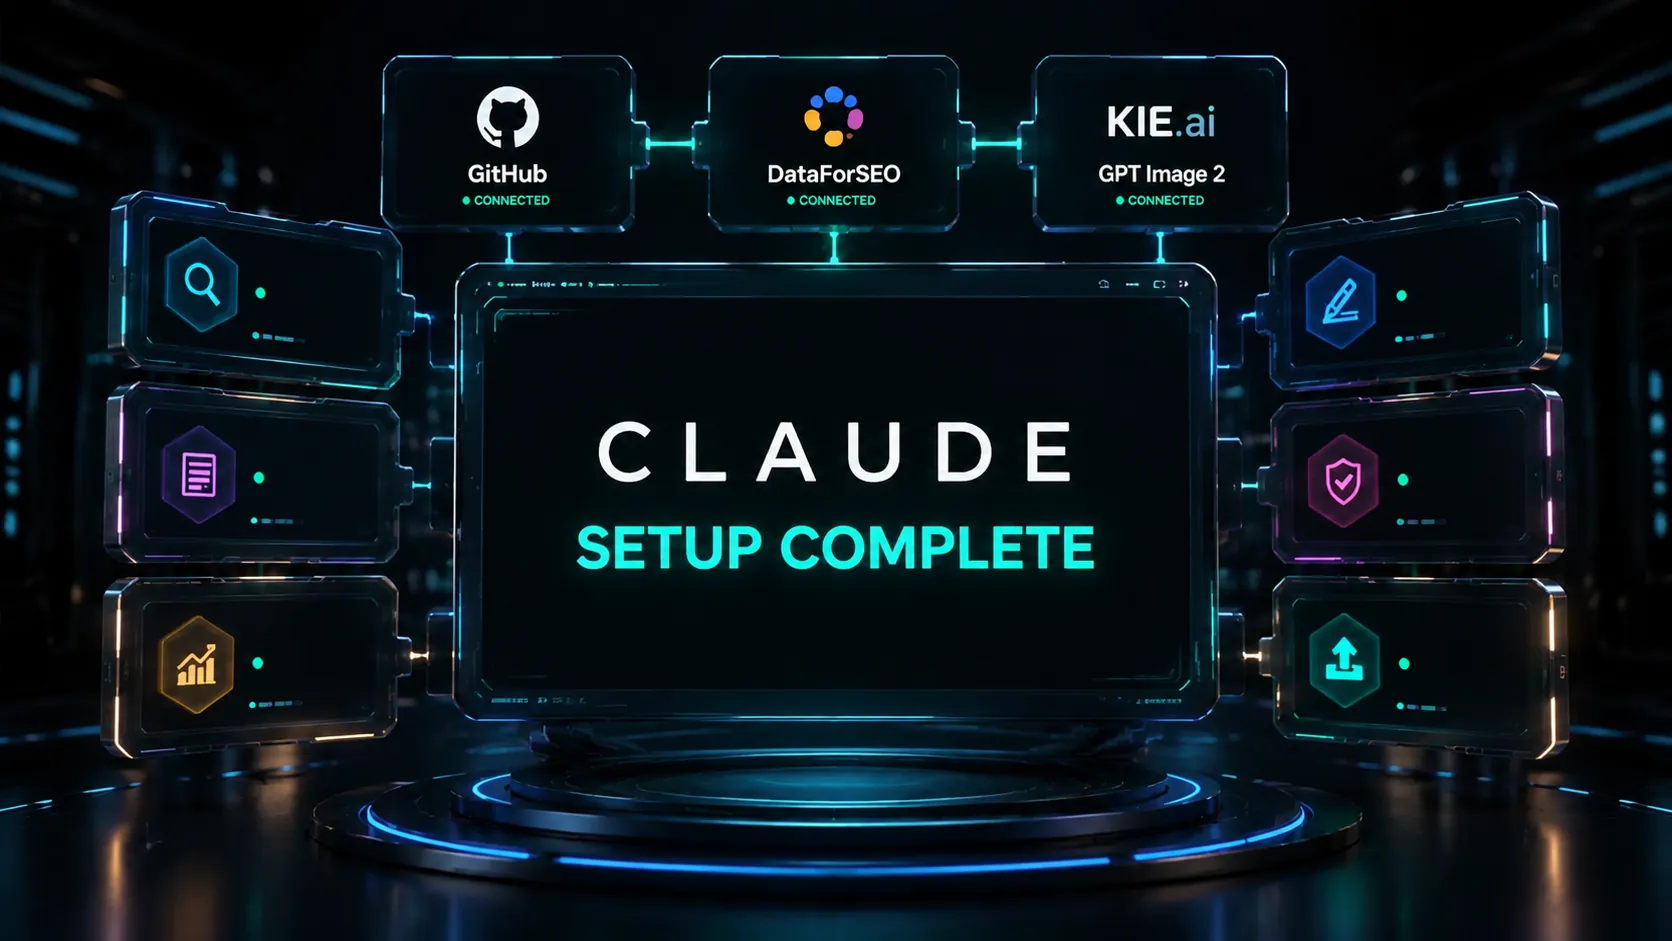
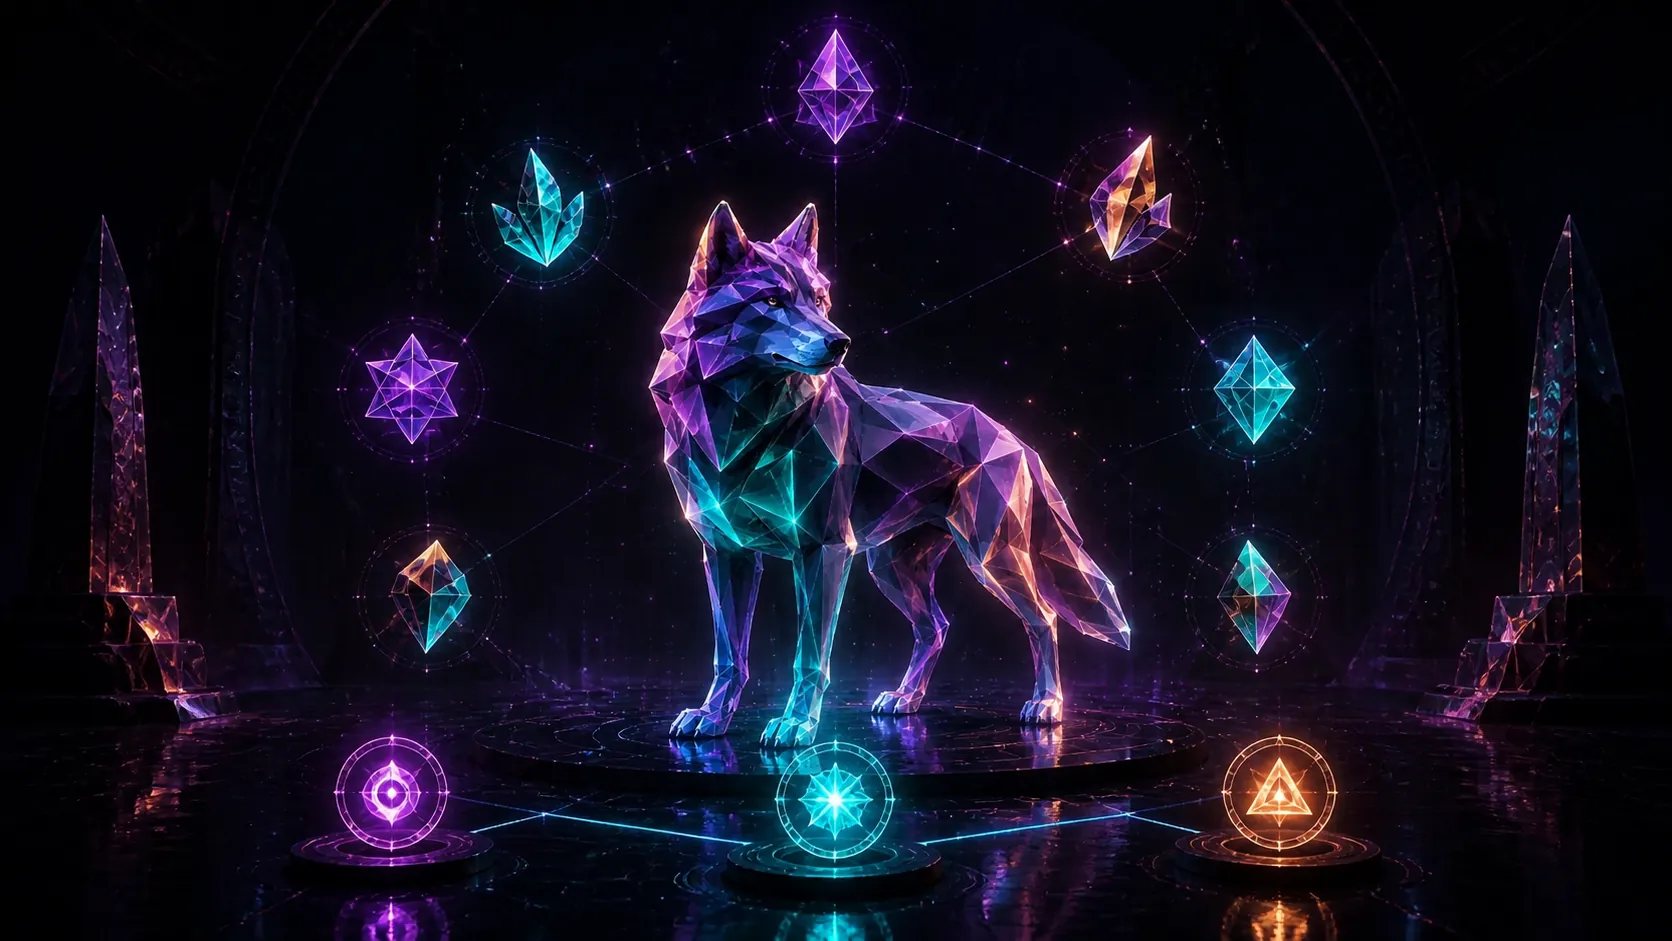
fix: replace claude install artwork with wolf system

diff --git a/CHANGELOG.md b/CHANGELOG.md
@@ -24,7 +24,7 @@ and this project adheres to [Semantic Versioning](https://semver.org/).
 - Simplified Claude GitHub marketing copy so the public package presents as a Claude Code product while keeping Codex compatibility documented separately.
 - Replaced the square mascot with a GPT Image 2 full-wolf variation.
 - Expanded the install experience image to the full README content width.
-- Replaced the terminal-style install screenshot with versionless GPT Image 2 setup artwork.
+- Replaced the terminal-style install screenshot with esoteric low-poly wolf system artwork.
 
 ## [1.2.0] - 2026-03-16
 